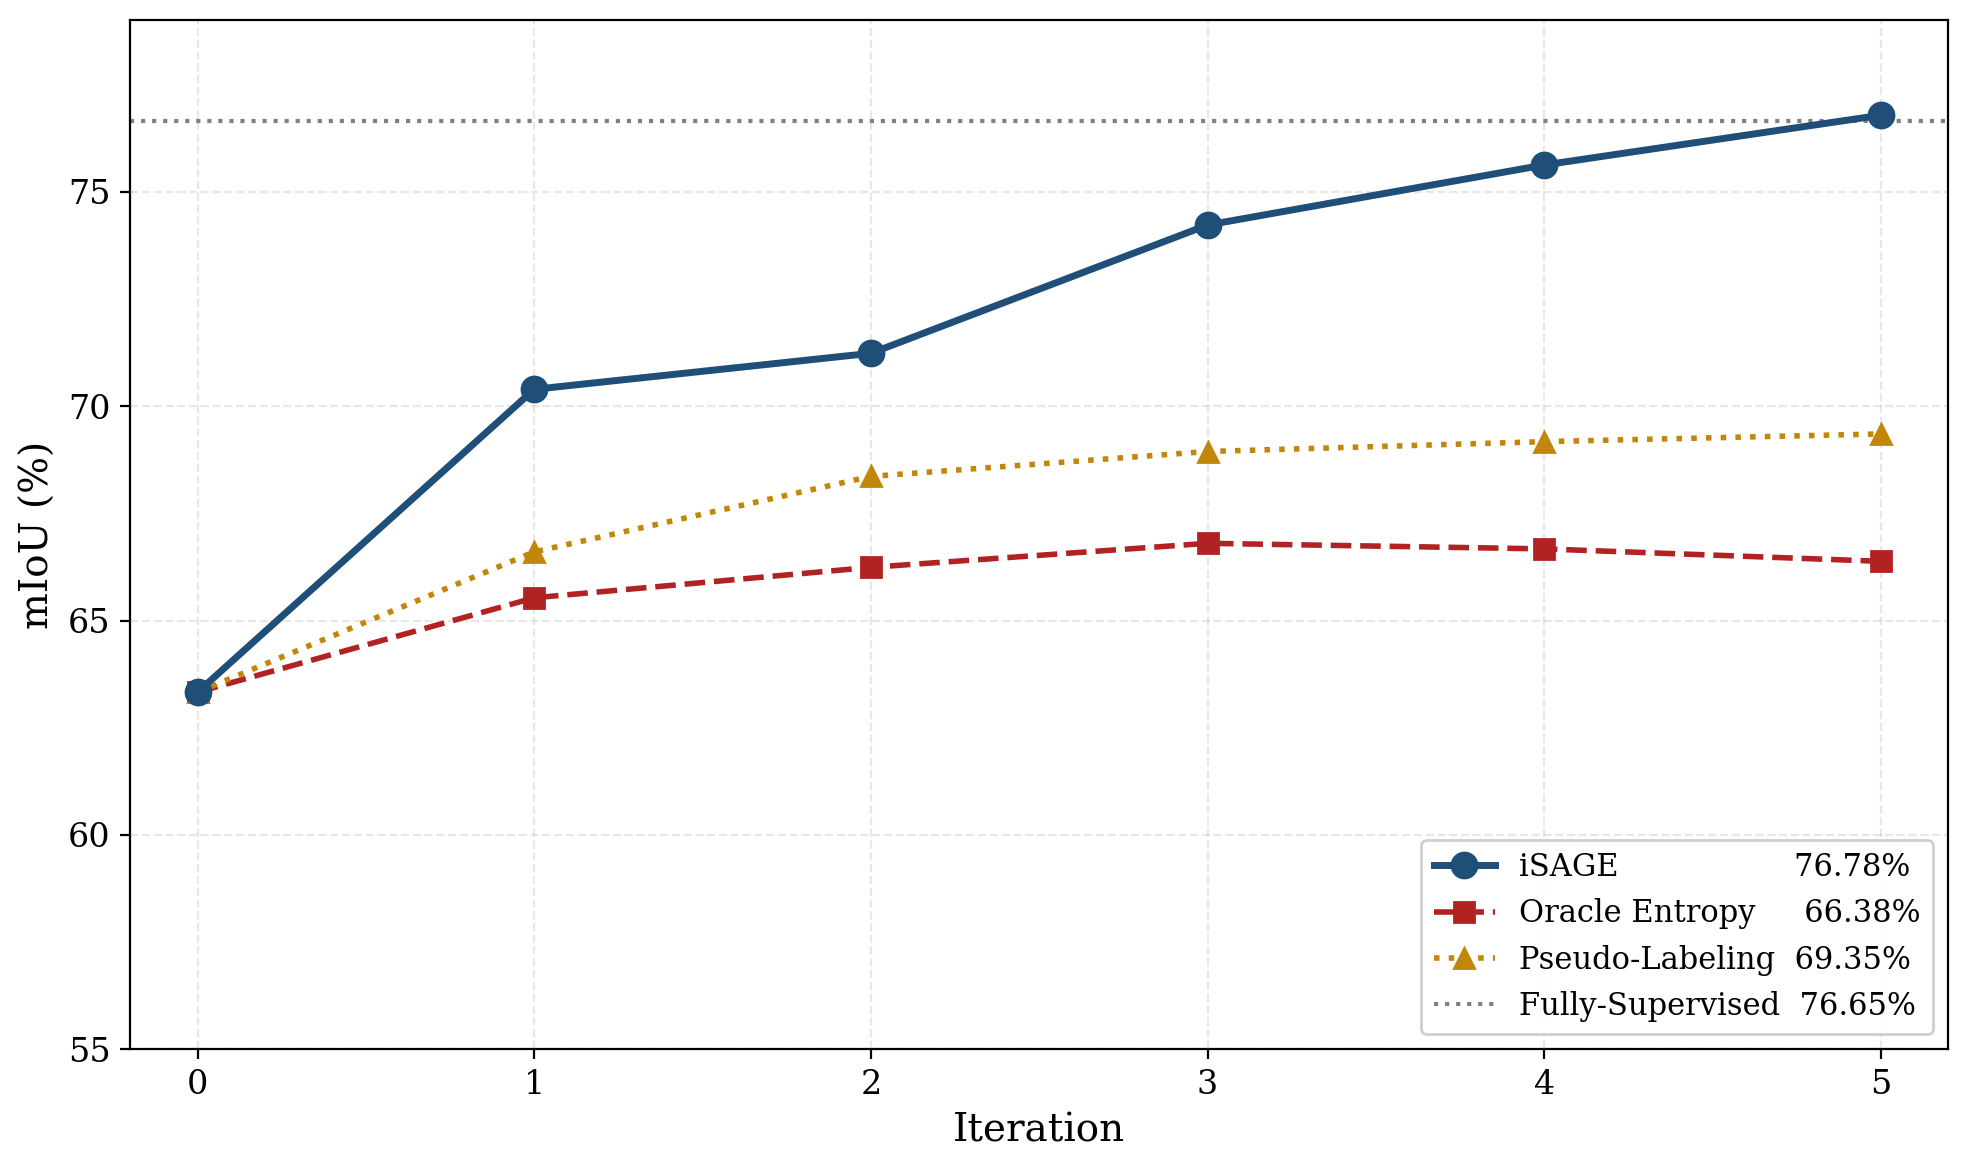
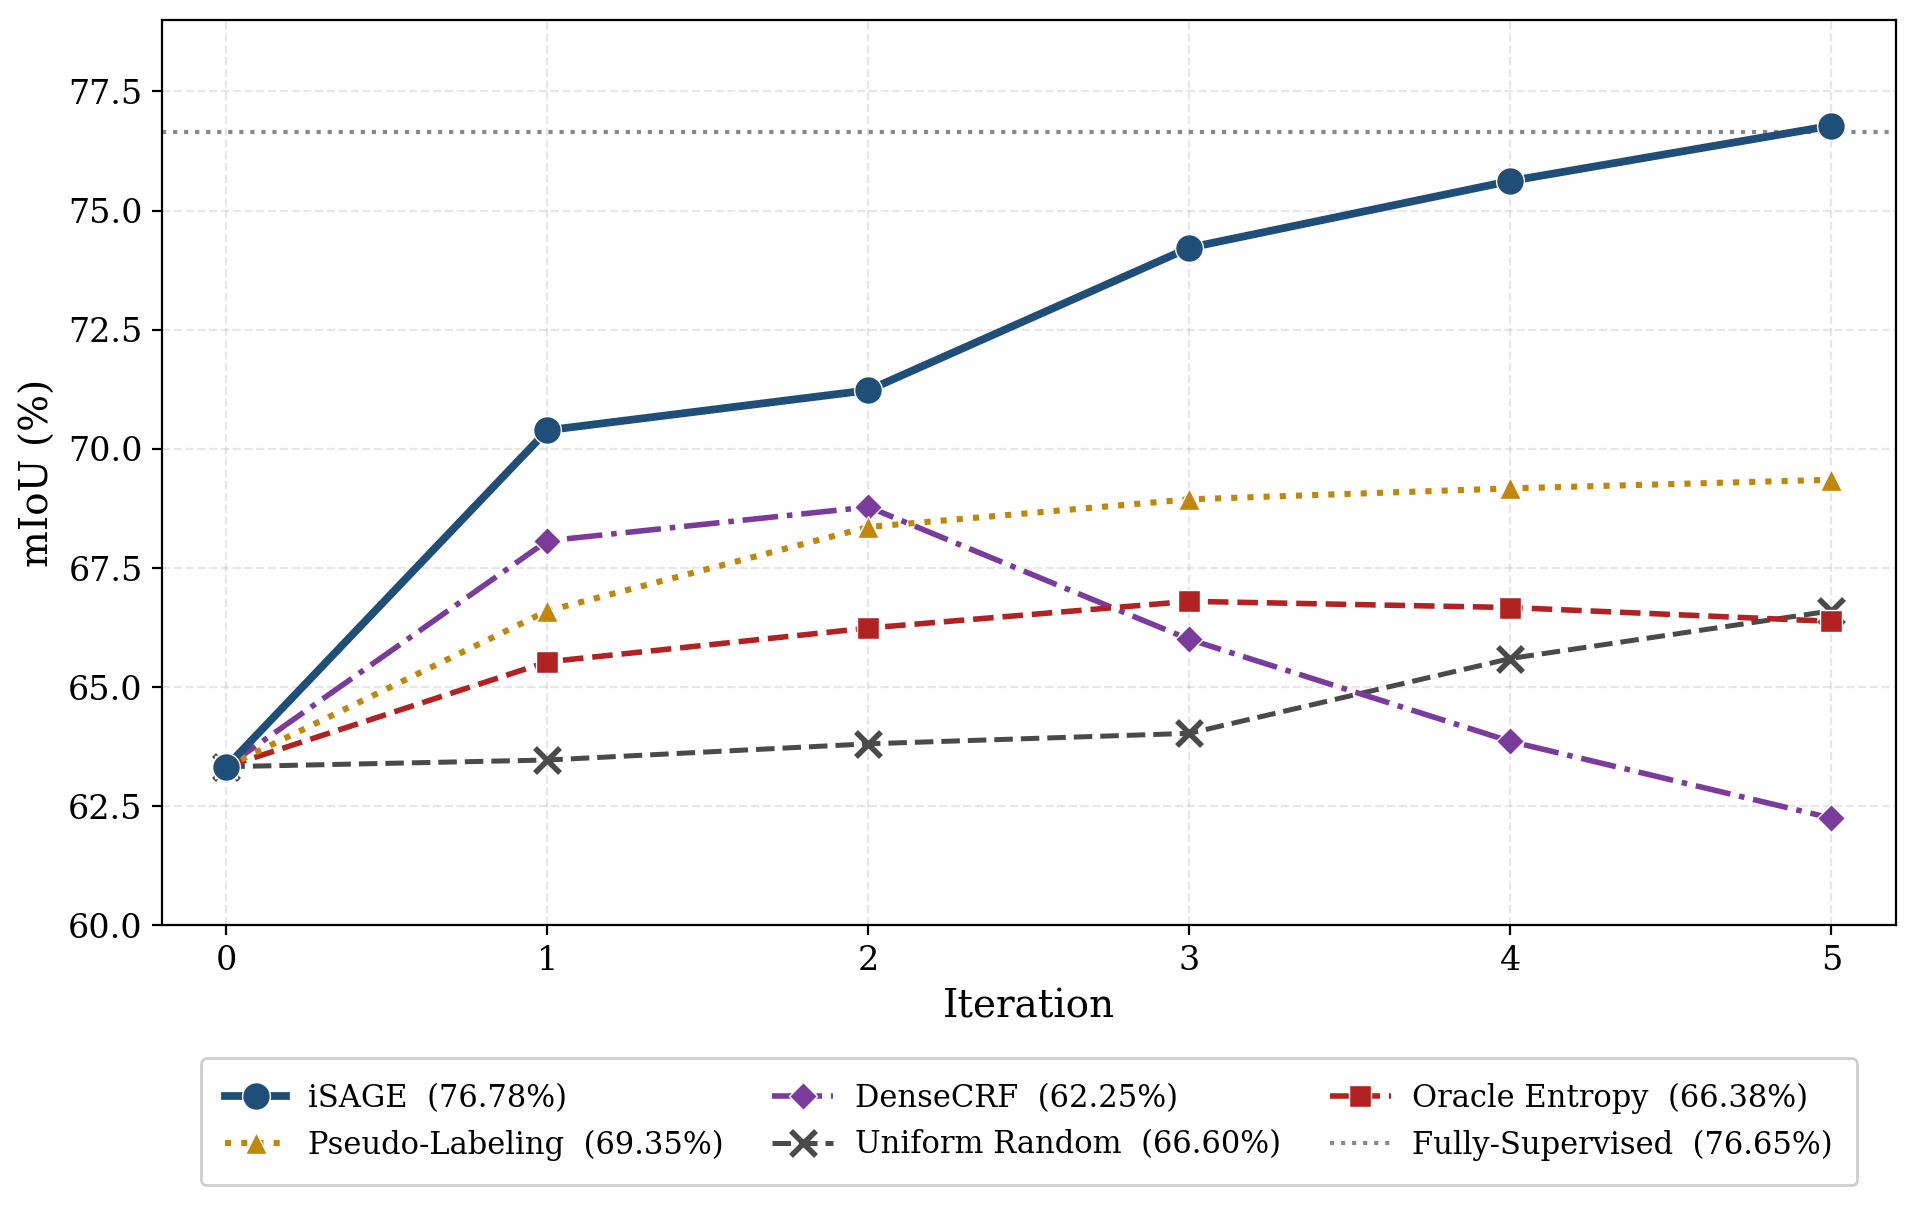
Update Vaihingen results figure with all four baselines
The figure now matches Fig 6 of the methods paper: iSAGE plus the
four output-reading baselines (oracle entropy, pseudo-labeling,
DenseCRF label propagation, uniform random) and the fully-supervised
dense reference line, with the legend below the plot.

Update the README caption accordingly: replace the two-baseline
mention with all four, and add the CRF degradation behavior
(unique among the baselines) as part of the qualitative summary.

diff --git a/README.md b/README.md
@@ -161,13 +161,13 @@ that amplifies the gradient at every annotated error during training.
 
 On ISPRS Vaihingen (five classes, 0.011% labeled pixels), iSAGE matches the
 fully-supervised baseline trained on dense GT under the same protocol while
-the strongest output-reading baselines (oracle entropy and self-training
-pseudo-labeling) plateau well below dense.
+all four output-reading baselines (oracle entropy, pseudo-labeling, DenseCRF
+label propagation, uniform random) plateau well below dense.
 
 <p align="center">
   <img src="docs/images/results_vaihingen.png" alt="iSAGE vs baselines on ISPRS Vaihingen" width="700"/>
   <br/>
-  <em>mIoU progression on ISPRS Vaihingen. iSAGE: 76.78% at iter 5 (matches fully-supervised 76.65%). Oracle entropy and pseudo-labeling plateau ~8–10 points below.</em>
+  <em>mIoU progression on ISPRS Vaihingen. iSAGE: 76.78% at iter 5 (matches fully-supervised 76.65%). Oracle entropy, pseudo-labeling, and uniform random plateau 7–10 points below; DenseCRF peaks early and then degenerates as spatial smoothing compounds confident errors across iterations.</em>
 </p>
 
 Full numbers across both datasets (BsB Aerial multiclass, Vaihingen 5-class,